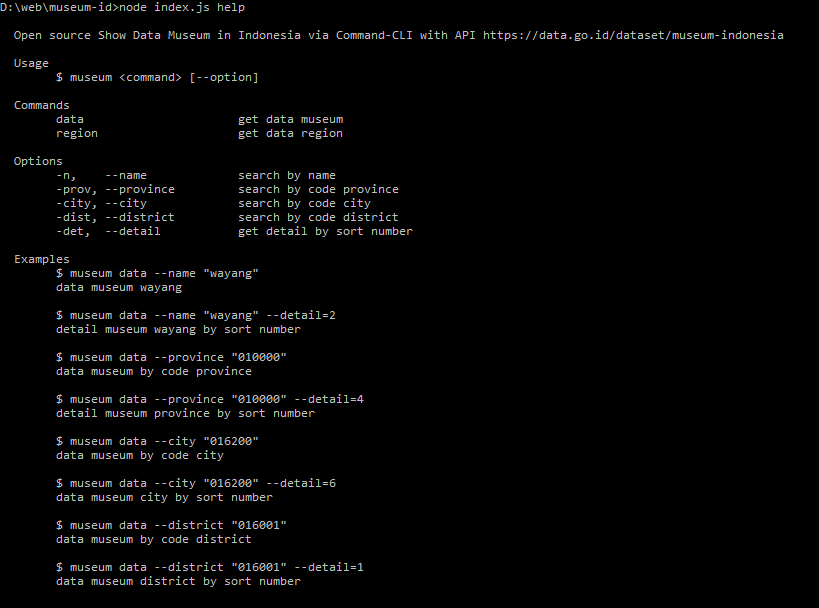
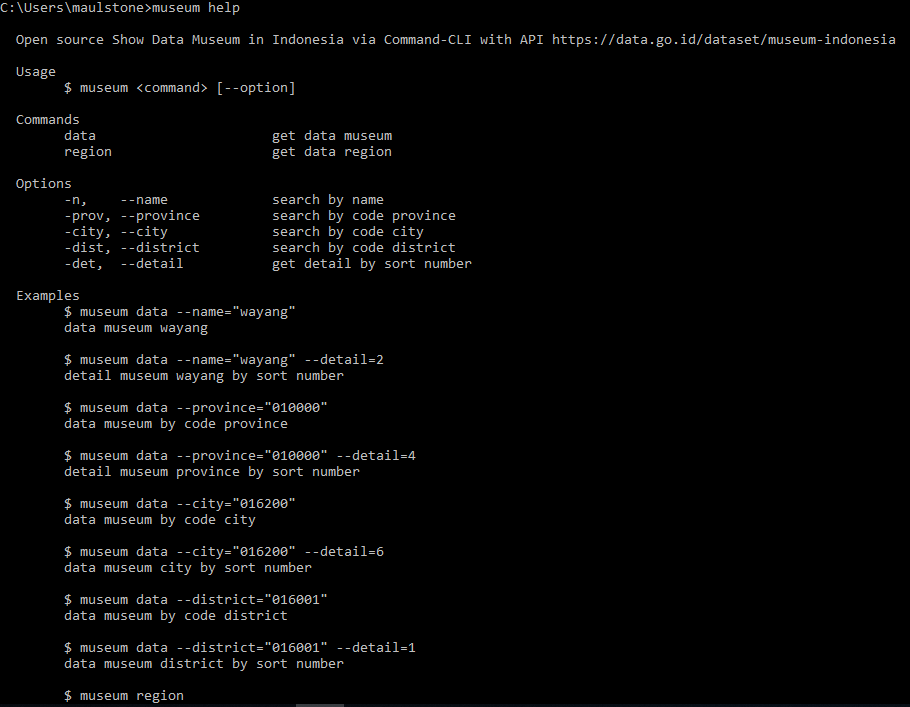
update README.md

diff --git a/data/museum.js b/data/museum.js
@@ -2,13 +2,12 @@ const API_MUSEUM = require('../api/api_museum.js');
 const Table = require('cli-table3');
 
 module.exports = async (
-	data, name, profile, province, city, district, detail
+	data, name, province, city, district, detail
 ) => {
-	if (data && (name || profile || province || city || district)) {
+	if (data && (name || province || city || district)) {
 		var response = null
 		
 		if (name) response = await API_MUSEUM.getName(name)
-		if (profile) response = await API_MUSEUM.getProfile(profile)
 		if (province) response = await API_MUSEUM.getProvince(province)
 		if (city) response = await API_MUSEUM.getCity(city)
 		if (district) response = await API_MUSEUM.getDistrict(district)
@@ -27,7 +26,7 @@ module.exports = async (
 			})
 		}
 		
-		if ((name || province || city || district) && detail) {
+		if (detail) {
 			const table = new Table({ head: [ `#`, `nama`, `deskripsi` ], style: { head: ['cyan'] }, chars: {} })
 			
 			var result = result[detail-1]

diff --git a/index.js b/index.js
@@ -14,7 +14,6 @@ const Region = require('./data/region.js');
 const [input] = cli.input;
 
 const name = cli.flags.name;
-const profile = cli.flags.profile;
 const province = cli.flags.province;
 const city = cli.flags.city;
 const district = cli.flags.district;
@@ -27,6 +26,6 @@ const code = cli.flags.code;
 	const data = input === 'data' ? true : false;
 	const region = input === 'region' ? true : false;
 	
-	Museum(data, name, profile, province, city, district, detail);
+	Museum(data, name, province, city, district, detail);
 	Region(region, code);
 })();

diff --git a/utils/cli.js b/utils/cli.js
@@ -41,7 +41,7 @@ module.exports = meow(`
 		data museum district by sort number
 		
 		$ museum region
-		list province
+		list region show province
 		
 		$ museum region --code="010000"
 		list region by code

diff --git a/README.md b/README.md
@@ -1,110 +1,96 @@
 # museum-id
 Open source Show Data Museum in Indonesia via Command-CLI with API https://data.go.id/dataset/museum-indonesia
 
-| Pencarian  | Result  |
-|---|---|
-| Profil Museum Indonesia  | Ok |
-| Museum Indonesia Berdasarkan Provinsi  | Ok |
-| Museum Indonesia Berdasarkan Kabupaten/Kota  | Ok |
-| Museum Indonesia Berdasarkan Kecamatan  | Ok |
-| Museum Indonesia Berdasarkan Nama  | Ok |
-| Data Provinsi  | Ok |
-| Data Kabupaten/Kota Berdasarkan Provinsi  | Ok |
-| Data Kecamatan Berdasarkan Kabupaten/Kota  | Ok |
+[x] Profil Museum Indonesia
+[x] Museum Indonesia Berdasarkan Provinsi
+[x] Museum Indonesia Berdasarkan Kabupaten/Kota
+[x] Museum Indonesia Berdasarkan Kecamatan
+[x] Museum Indonesia Berdasarkan Nama
+[x] Data Provinsi
+[x] Data Kabupaten/Kota Berdasarkan Provinsi
+[x] Data Kecamatan Berdasarkan Kabupaten/Kota
 
-### Langkah awal
-#### Ambil beberapa library
+### Instalasi
+#### Install paket museum-id pada global
 ```js
-npm install
+npm install -g museum-id
+```
+#### Install paket runner (eksekusi) dengan npx
+```js
+npm install -g npx
+```
+#### Eksekusi paket museum-id dengan npx
+```js
+npx museum-id
+```
+
+### Menampilkan Tentang Aplikasi Dan Info Bantuan
+```js
+museum help
 ```
 
 ### Museum Data Informasi
-#### Menampilkan Info Bantuan
-```js
-node index.js help
-```
-
-![help](https://github.com/maulana20/museum-id/blob/master/screen/help.PNG)
+Merupakan data informasi mengenai semua museum yang ada di indonesia.
 
 #### Menampikan Data Pencarian Berdasarkan Provinsi
+##### Pencarian
 ```js
-node index.js data --province="010000"
+museum data --province="<kode_wilayah>"
+```
+##### Detail Sesuai Dengan No Urut
+```js
+museum data --province="<kode_wilayah>" --detail=<no_urut>
 ```
 
-![museum-province](https://github.com/maulana20/museum-id/blob/master/screen/museum-province.PNG)
-
-#### Menampilkan Data Detail Sesuai No Urut Pada Museum Berdasarkan Provinsi
+#### Menampilkan Data Pencarian Berdasarkan Kabupaten/Kota
+##### Pencarian
 ```js
-node index.js data --province="010000" --detail=4
+museum data --city="<kode_wilayah>"
 ```
-
-![museum-province-detail](https://github.com/maulana20/museum-id/blob/master/screen/museum-province-detail.PNG)
-
-#### Menampilkan Data Pencarian Berdasarkan Kota
+##### Detail Sesuai Dengan No Urut
 ```js
-node index.js data --city="016200"
+museum data --city="<kode_wilayah>" --detail=<no_urut>
 ```
-
-![museum-city](https://github.com/maulana20/museum-id/blob/master/screen/museum-city.PNG)
-
-#### Menampilkan Data Detail Sesuai No Urut Pada Museum Berdasarkan Kota
-```js
-node index.js data --city="016200" --detail=6
-```
-
-![museum-city-detail](https://github.com/maulana20/museum-id/blob/master/screen/museum-city-detail.PNG)
 
 #### Menampilkan Data Pencarian Berdasarkan Kecamatan
+##### Pencarian
 ```js
-node index.js data --district="016001"
+museum data --district="<kode_wilayah>"
 ```
-
-![museum-district](https://github.com/maulana20/museum-id/blob/master/screen/museum-district.PNG)
-
-#### Menampilkan Data Detail Sesuai No Urut Pada Museum Berdasarkan Kecamatan
+##### Detail Sesuai Dengan No Urut
 ```js
-node index.js data --district="016001" --detail=1
+museum data --district="<kode_wilayah>" --detail=<no_urut>
 ```
-
-![museum-district-detail](https://github.com/maulana20/museum-id/blob/master/screen/museum-district-detail.PNG)
 
 #### Menampilkan Data Pencarian Berdasarkan Nama
+##### Pencarian
 ```js
-node index.js data --name="wayang"
+museum data --name="<kode_wilayah>"
 ```
-
-![museum-name](https://github.com/maulana20/museum-id/blob/master/screen/museum-name.PNG)
-
-#### Menampilkan Data Detail Sesuai No Urut Pada Museum Berdasarkan Nama
+##### Detail Sesuai Dengan No Urut
 ```js
-node index.js data --name="wayang" --detail=2
+museum data --name="<kode_wilayah>" --detail=<no_urut>
 ```
-
-![museum-name-detail](https://github.com/maulana20/museum-id/blob/master/screen/museum-name-detail.PNG)
 
 ### Museum Data Wilayah
-#### Menampilkan Data Seluruh Provinsi
+Merupakan data wilayah yang mencakup provinsi, kabupaten/kota, kecamatan. Perlu di ketahui data wilayah ini memiliki kode diantaranya :
+- <b>kode wilayah</b> merupakan kode sesuai pada nama wilayah yang di tuju
+- <b>kode induk</b> merupakan induk pada kode wilayah
+
+catatan => kode wilayah bisa berupa kode diantaranya : provinsi, kabupaten/kota, dan kecamatan
+
+#### Menampilkan Data Wilayah Awal <Provinsi>
 ```js
-node index.js region
+museum region
 ```
 
-![region-province](https://github.com/maulana20/museum-id/blob/master/screen/region-province.PNG)
-
-#### Menampilkan Data Seluruh Kabupaten
-catatan = code => kode wilayah pada data provinsi
+#### Menampilkan Data Wilayah Berdasarkan Kode Wilayah
 ```js
-node index.js region --code="010000"
+museum region --code="<kd_wilayah>"
 ```
 
-![region-city](https://github.com/maulana20/museum-id/blob/master/screen/region-city.PNG)
-
-#### Menampilkan Data Seluruh Kecamatan
-catatan = code => kode wilayah pada data kabupaten
-```js
-node index.js region --code="016200"
-```
-
-![region-district](https://github.com/maulana20/museum-id/blob/master/screen/region-district.PNG)
+### Tampilan
+[![help](./screen/help.PNG)](./../../)
 
 ### Author
 
